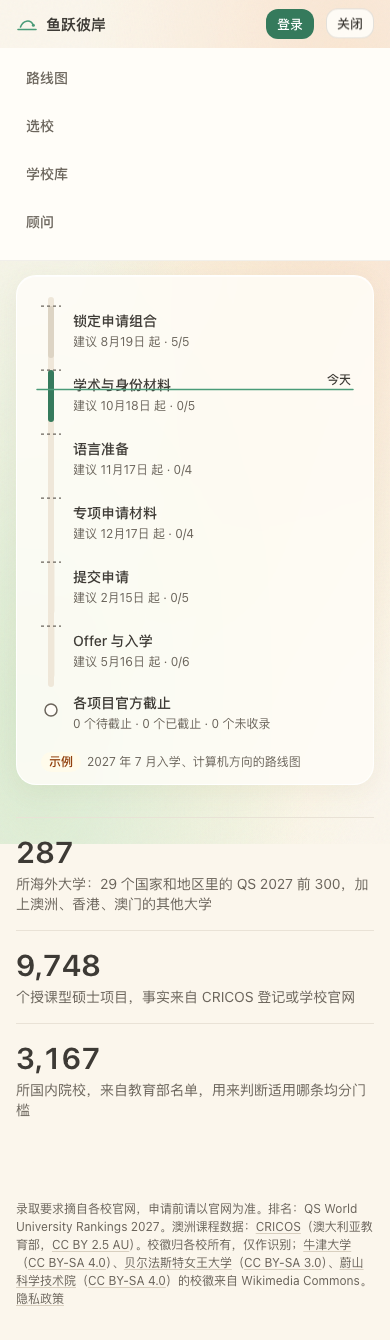
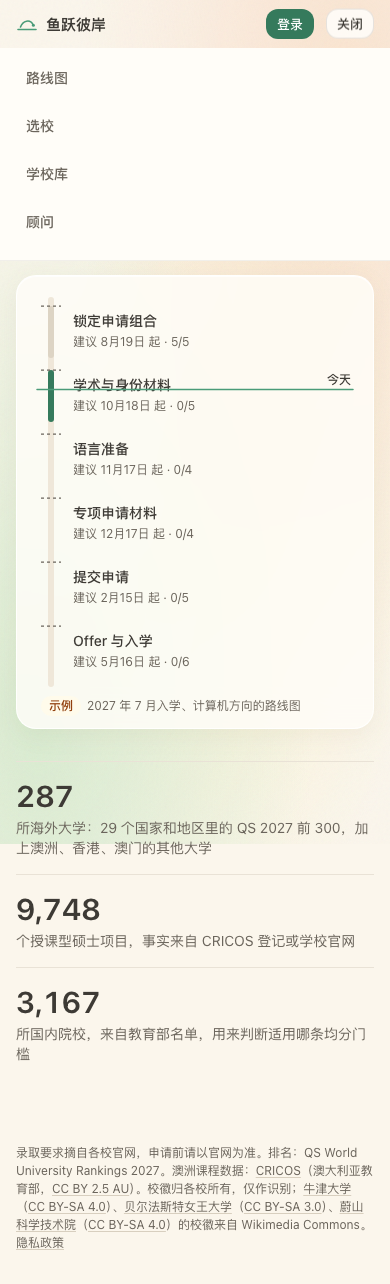
fix(web): search a school's programs by name in the page, clamp its pages, quiet the home sample
- The school page reads all of the school's programs once and filters by program name and study area itself (filterSchoolPrograms): the catalogue's q also matches the school's names, so "Technology" at UTS returned every program. The separate filtered API read is gone.
- A page number is floored, a non-number reads as 1 and a page past the end shows the last page (clampPage); a query of only spaces is no filter.
- The home sample hides the deadlines row and the empty 未收录 lane (Timeline showDeadlines), since the sample has no portfolio.
- The advisor's refusal points to the school's page in 学校库 instead of the removed 项目库 (the only backend line changed).
- The walkthrough checks the stubbed advisor request by URL, method and body and confirms the session through /api/auth/me, instead of reading the cookie header of a request that never reached the network; it adds the UTS search, the out-of-range page and the quiet sample.

diff --git a/web/components/roadmap/Timeline.tsx b/web/components/roadmap/Timeline.tsx
@@ -25,6 +25,11 @@ interface Props {
   onSelect: (phaseId: string) => void;
   /** Draw the entrance once, on the first render of the page. */
   animate: boolean;
+  /**
+   * The deadlines row and the 未收录 lane, on by default. The home page's sample has no portfolio, so it
+   * turns them off rather than show a row of zeros and an empty lane.
+   */
+  showDeadlines?: boolean;
 }
 
 const DAY = 86_400_000;
@@ -107,9 +112,9 @@ function phaseLabel(p: TimelinePhase): string {
   return `${p.title}，${start}${p.done}/${p.total} 项完成${p.overdue ? "，已过建议时间" : ""}${p.current ? "，当前阶段" : ""}`;
 }
 
-function Horizontal({ model, today, deadlines, selected, onSelect, animate, width: W }: Props & { width: number }) {
+function Horizontal({ model, today, deadlines, selected, onSelect, animate, showDeadlines = true, width: W }: Props & { width: number }) {
   const compact = W < 760;
-  const LABEL = compact ? 136 : 196, LANE = compact ? 84 : 104, TOP = 58, PITCH = 44, BAR = 22;
+  const LABEL = compact ? 136 : 196, LANE = showDeadlines ? (compact ? 84 : 104) : 0, TOP = 58, PITCH = 44, BAR = 22;
   const x0 = LABEL + 8, x1 = W - LANE - 16;
   const first = model.phases[0]?.start ? utc(model.phases[0].start) : today;
   // From the start of today's day, so a deadline dated today is still on the axis.
@@ -124,7 +129,7 @@ function Horizontal({ model, today, deadlines, selected, onSelect, animate, widt
   });
   const pending = deadlines.filter((d) => d.view.state === "unknown");
   const closed = deadlines.filter((d) => d.view.state === "closed");
-  const rows = model.phases.length + 1;
+  const rows = model.phases.length + (showDeadlines ? 1 : 0);
   const H = TOP + rows * PITCH + 8;
 
   const months: Date[] = [];
@@ -137,8 +142,12 @@ function Horizontal({ model, today, deadlines, selected, onSelect, animate, widt
 
   return (
     <svg viewBox={`0 0 ${W} ${H}`} width={W} height={H} className={`timeline-svg${animate ? " tl-animate" : ""}`} role="group" aria-label="申请路线图时间轴">
-      <rect x={W - LANE} y={TOP - 8} width={LANE} height={H - TOP + 8} rx={14} fill={C.lane} />
-      <text x={W - LANE / 2} y={TOP - 16} textAnchor="middle" fontSize={12} fill={C.muted}>{compact ? "未收录" : "未收录的截止"}</text>
+      {showDeadlines && (
+        <>
+          <rect x={W - LANE} y={TOP - 8} width={LANE} height={H - TOP + 8} rx={14} fill={C.lane} />
+          <text x={W - LANE / 2} y={TOP - 16} textAnchor="middle" fontSize={12} fill={C.muted}>{compact ? "未收录" : "未收录的截止"}</text>
+        </>
+      )}
       {months.map((m, i) => (
         <g key={m.toISOString()}>
           <line x1={xs(m)} x2={xs(m)} y1={TOP - 8} y2={H - 8} stroke={C.track} strokeWidth={1} />
@@ -174,7 +183,7 @@ function Horizontal({ model, today, deadlines, selected, onSelect, animate, widt
           </g>
         );
       })}
-      <g>
+      {showDeadlines && <g>
         <text x={10} y={TOP + model.phases.length * PITCH + 15} fontSize={14} fontWeight={500} fill={C.ink}>各项目官方截止</text>
         <text x={10} y={TOP + model.phases.length * PITCH + 32} fontSize={12} fill={C.muted}>
           {deadlines.length - pending.length - closed.length} 个待截止 · {closed.length} 个已截止 · {pending.length} 个未收录
@@ -194,7 +203,7 @@ function Horizontal({ model, today, deadlines, selected, onSelect, animate, widt
             <text x={W - LANE + 34} y={TOP + model.phases.length * PITCH + (PITCH - 4) / 2 + 4} fontSize={12} fill={C.ink}>未收录 {pending.length}</text>
           </g>
         )}
-      </g>
+      </g>}
       {model.dated && tx >= x0 - 1 && tx <= x1 + 1 && (
         <g>
           <line className="tl-today" x1={tx} x2={tx} y1={TOP - 50} y2={H - 8} stroke={C.accent} strokeWidth={1.5} strokeLinecap="round" />
@@ -206,11 +215,11 @@ function Horizontal({ model, today, deadlines, selected, onSelect, animate, widt
 }
 
 /** Below 640px: time runs down, one row per phase, so labels keep 14px instead of shrinking. */
-function Vertical({ model, today, deadlines, selected, onSelect, animate, width: W }: Props & { width: number }) {
+function Vertical({ model, today, deadlines, selected, onSelect, animate, showDeadlines = true, width: W }: Props & { width: number }) {
   const ROW = 64, TRACK_X = 18, TOP = 8;
   const todayIso = today.toISOString().slice(0, 10);
   const rows = model.phases.length;
-  const H = TOP + rows * ROW + 64;
+  const H = TOP + rows * ROW + (showDeadlines ? 64 : 8);
   const pending = deadlines.filter((d) => d.view.state === "unknown").length;
   const closed = deadlines.filter((d) => d.view.state === "closed").length;
   const open = deadlines.length - pending - closed;
@@ -251,11 +260,11 @@ function Vertical({ model, today, deadlines, selected, onSelect, animate, width:
           <text x={W - 6} y={(todayY as number) - 6} textAnchor="end" fontSize={12} fontWeight={500} fill={C.ink}>今天</text>
         </g>
       )}
-      <g>
+      {showDeadlines && <g>
         <circle cx={TRACK_X} cy={TOP + rows * ROW + 26} r={6} fill={C.surface} stroke={C.muted} strokeWidth={1.5} />
         <text x={40} y={TOP + rows * ROW + 24} fontSize={14} fontWeight={500} fill={C.ink}>各项目官方截止</text>
         <text x={40} y={TOP + rows * ROW + 44} fontSize={12} fill={C.muted}>{open} 个待截止 · {closed} 个已截止 · {pending} 个未收录</text>
-      </g>
+      </g>}
     </svg>
   );
 }

diff --git a/web/app/schools/[slug]/page.tsx b/web/app/schools/[slug]/page.tsx
@@ -4,7 +4,7 @@ import { notFound, redirect } from "next/navigation";
 
 import { ProgramTable } from "@/components/catalog/ProgramTable";
 import { SchoolMark } from "@/components/ui";
-import { programColumns, universityIdsFor } from "@/lib/catalog";
+import { clampPage, filterSchoolPrograms, programColumns, universityIdsFor } from "@/lib/catalog";
 import { masterPrograms, overseasInstitutions } from "@/lib/catalog-server";
 import { institutionSlug } from "@/lib/prototype-library";
 import { serverProgramPage, serverUniversities } from "@/lib/server-api";
@@ -35,8 +35,10 @@ export async function generateMetadata({ params }: { params: Promise<{ slug: str
 
 /**
  * One school and the programs the catalogue holds for it, searchable by name and filterable by study area.
- * The only way to browse programs: the catalogue-wide list was removed. The API serves programs with a
- * stated requirement first.
+ * The only way to browse programs: the catalogue-wide list was removed. Every program of the school is
+ * read once (at most a few pages of 100) and searched, filtered and paged here, because the catalogue's
+ * `q` also matches the school's own names. The API serves programs with a stated requirement first, and
+ * filtering keeps that order.
  */
 export default async function SchoolPage({
   params,
@@ -54,30 +56,21 @@ export default async function SchoolPage({
     notFound();
   }
   const query = await searchParams;
-  const q = one(query.q).slice(0, 100);
+  const q = one(query.q).trim().slice(0, 100);
   const field = STUDY_AREAS.includes(one(query.field) as (typeof STUDY_AREAS)[number]) ? one(query.field) : "";
-  const pageNo = Math.max(1, Number(one(query.page)) || 1);
   const name = school.name_zh || school.name_en || "未知";
   const base = `/schools/${encodeURIComponent(institutionSlug(school))}`;
 
   let all: Program[] | null = null;
-  let page: { programs: Program[]; total: number } | null = null;
   try {
     const ids = universityIdsFor(school, await serverUniversities());
-    if (ids.length === 0) {
-      all = [];
-      page = { programs: [], total: 0 };
-    } else {
-      [all, page] = await Promise.all([
-        allPrograms(ids),
-        serverProgramPage({ provider: ids, q, field: field || undefined, limit: PAGE, offset: (pageNo - 1) * PAGE }),
-      ]);
-    }
+    all = ids.length === 0 ? [] : await allPrograms(ids);
   } catch {
     all = null;
-    page = null;
   }
-  const pages = page ? Math.max(1, Math.ceil(page.total / PAGE)) : 1;
+  const matching = all ? filterSchoolPrograms(all, { q, field }) : [];
+  const { page: pageNo, pages } = clampPage(one(query.page), matching.length, PAGE);
+  const page = all ? { programs: matching.slice((pageNo - 1) * PAGE, pageNo * PAGE), total: matching.length } : null;
   const filtered = Boolean(q || field);
   const href = (n: number) => {
     const next = new URLSearchParams();

diff --git a/web/lib/catalog.test.ts b/web/lib/catalog.test.ts
@@ -5,6 +5,8 @@ import { test } from "node:test";
 import {
   cricosCode,
   cricosFacts,
+  clampPage,
+  filterSchoolPrograms,
   missingRequirements,
   programColumns,
   schoolSlugForUniversity,
@@ -109,4 +111,32 @@ test("a school's table keeps only the columns some program fills", () => {
   assert.deepEqual(programColumns([program("y", { duration: "1 year" })], courses), {
     duration: true, tuition: false, requirements: false,
   });
+});
+
+test("a school's programs are searched by program name only, never by the school's name", () => {
+  const programs = [
+    { name: "Master of Data Science", field: "计算机与数据" },
+    { name: "Master of Engineering (Technology Management)", field: "工程" },
+    { name: "Master of Laws", field: "法律与犯罪学" },
+    { name: null, field: null },
+  ];
+  // "Technology" is in the University of Technology Sydney's own name; only one program carries it.
+  assert.deepEqual(filterSchoolPrograms(programs, { q: "technology", field: "" }).map((p) => p.name), ["Master of Engineering (Technology Management)"]);
+  assert.deepEqual(filterSchoolPrograms(programs, { q: "  DATA ", field: "" }).map((p) => p.name), ["Master of Data Science"]);
+  assert.deepEqual(filterSchoolPrograms(programs, { q: "", field: "法律与犯罪学" }).map((p) => p.name), ["Master of Laws"]);
+  assert.deepEqual(filterSchoolPrograms(programs, { q: "master", field: "工程" }).map((p) => p.name), ["Master of Engineering (Technology Management)"]);
+  // Whitespace only is no filter.
+  assert.equal(filterSchoolPrograms(programs, { q: "   ", field: "" }).length, 4);
+});
+
+test("a page number is clamped to the pages there are", () => {
+  assert.deepEqual(clampPage("3", 100, 30), { page: 3, pages: 4 });
+  assert.deepEqual(clampPage("99", 100, 30), { page: 4, pages: 4 });
+  assert.deepEqual(clampPage("2.7", 100, 30), { page: 2, pages: 4 });
+  assert.deepEqual(clampPage("-5", 100, 30), { page: 1, pages: 4 });
+  assert.deepEqual(clampPage("abc", 100, 30), { page: 1, pages: 4 });
+  assert.deepEqual(clampPage("Infinity", 100, 30), { page: 1, pages: 4 });
+  assert.deepEqual(clampPage("1e400", 100, 30), { page: 1, pages: 4 });
+  assert.deepEqual(clampPage(undefined, 0, 30), { page: 1, pages: 1 });
+  assert.deepEqual(clampPage("5", 0, 30), { page: 1, pages: 1 });
 });

diff --git a/web/lib/catalog.ts b/web/lib/catalog.ts
@@ -135,3 +135,31 @@ export function programColumns(
     requirements: programs.some(statesARequirement),
   };
 }
+
+/**
+ * A school's programs narrowed by a search term and a study area, in the page itself. The catalogue's
+ * own `q` also matches the school's names, so on a school page it would match every program of a school
+ * whose name holds the term ("Technology" at UTS); here only the program's name is searched, without
+ * case, and a term of only spaces is no filter.
+ */
+export function filterSchoolPrograms<T extends { name: string | null; field: string | null }>(
+  programs: T[],
+  { q, field }: { q: string; field: string },
+): T[] {
+  const term = q.trim().toLowerCase();
+  return programs.filter(
+    (p) => (!field || p.field === field) && (!term || (p.name ?? "").toLowerCase().includes(term)),
+  );
+}
+
+/**
+ * The page to show for a page number read from the address, and how many pages there are: a fraction is
+ * rounded down, anything that is not a finite number reads as page 1, and a page past the end shows the
+ * last one rather than an empty list.
+ */
+export function clampPage(raw: string | undefined, total: number, size: number): { page: number; pages: number } {
+  const pages = Math.max(1, Math.ceil(total / size));
+  const asked = Number(raw);
+  const page = Number.isFinite(asked) ? Math.floor(asked) : 1;
+  return { page: Math.min(pages, Math.max(1, page)), pages };
+}

diff --git a/web/components/home/SampleTimeline.tsx b/web/components/home/SampleTimeline.tsx
@@ -19,7 +19,7 @@ export function SampleTimeline() {
   const model = timelineOf(buildRoadmap(profile, done, today), today);
   return (
     <figure className="panel" style={{ margin: 0, padding: "16px 16px 8px" }}>
-      <Timeline model={model} today={today} deadlines={[]} selected={null} onSelect={() => router.push("/tiers")} animate />
+      <Timeline model={model} today={today} deadlines={[]} showDeadlines={false} selected={null} onSelect={() => router.push("/tiers")} animate />
       <figcaption className="muted small" style={{ padding: "4px 8px" }}>
         <span className="pill pill-sample" style={{ marginRight: 6 }}>示例</span>
         {year} 年 7 月入学、计算机方向的路线图

diff --git a/api/app/agent/evidence.py b/api/app/agent/evidence.py
@@ -404,7 +404,7 @@ def refusal(session: Session, found: Retrieval) -> tuple[str, str]:
         )
         return "no_program_in_field", (
             f"{names}已收录 {counts['with_data']} 个项目的官方录取要求，但其中没有{subject}方向的，{pending}"
-            f"可以换个方向问，或在项目库里查看该校已收录的项目。{tail}"
+            f"可以换个方向问，或到学校库里该校的页面查看已收录的项目。{tail}"
         )
     return "no_citable_source", "找到了相关项目，但它没有可引用的官方来源链接，所以我不能回答它的要求。已记录为待补来源。"
 

diff --git a/note/decisions.md b/note/decisions.md
@@ -7,7 +7,7 @@
 - **背景**：lead 要求把站点包装成成品（不加功能、不动后端）。MortyYJT 睡前授权不问、自己定，每条记在这里。
 - **决定**：
   - 删掉 `/programs` 列表页（直接 404，不跳转）和所有指向它的链接；项目只能从学校详情页进。项目详情页保留，面包屑改成「学校库 › 校名」，顶栏在项目详情页标「学校库」为当前页。
-  - 学校详情页搬来原列表页的搜索框和方向筛选（同一套 `q`、`field` 参数走 `/api/programs`），翻页链接带着筛选条件。排序不用改：API 本来就把有要求的项目排前面。全校每个项目都没有的列（学制、总学费、录取要求）整列不显示，按全校项目算（多一次最多 3 页的读取），不按当前页算，免得翻页时列忽有忽无。
+  - 学校详情页搬来原列表页的搜索框和方向筛选，翻页链接带着筛选条件。页面一次读出该校全部项目（最多 3 页 100 条），在页面里按项目名（不分大小写、去首尾空格，只有空格算没填）和方向筛选、分页；不用 API 的 `q`，因为它也匹配校名（在 UTS 搜 Technology 会返回全部项目）。页码向下取整、非数字当第 1 页、超出范围显示最后一页。排序沿用 API 的顺序（有要求的在前）。全校每个项目都没有的列（学制、总学费、录取要求）整列不显示，按全校项目算，免得翻页时列忽有忽无。
   - 状态标签只留「已核对」（`已核验`，有人核对过），`待核验`、`机器核对` 不再显示任何字（`verifiedMark` 取代 `dataStatusLabel`）。理由：未核对是现在所有数据的默认状态，逐行标注只是噪音；但人工核验入口（#69）确认过的页仍要让申请人看得出来。拿掉逐行「未核对」后，页脚保留一句「录取要求摘自各校官网，申请前请以官网为准」。
   - 删掉每页底部的说明段落（`SourceNote` 组件删除），只留全站一行页脚：上面那句提醒、QS 2027 出处、CRICOS（CC BY 2.5 AU，带许可链接）、按 CC BY-SA 使用的 3 枚校徽（牛津、贝尔法斯特女王、蔚山，各自链到 Commons 页面和许可）、隐私政策。校徽名单从学校库文件读，以后新增 CC 校徽不用改组件。管理页的说明改成标题下的一行小字（管理页本来就是内部页）。
   - 顾问页不再显示「意图」「证据门禁」两个标签（讲的是系统内部流程），工具标签保留；删掉错误的「对话保存在服务器内存里」（对话在 PostgreSQL）。
@@ -16,8 +16,9 @@
   - 读取中统一成灰色占位条（`Loading` 组件改为骨架，读屏仍读「正在读取…」）；分档、路线图、选校组合在等登录状态时保留页面标题和框架。
   - 首页示例路线图空白的根因：`Timeline` 量到自己的宽度之前什么都不画，服务器返回的 HTML 里只有一个空框，要等脚本加载并运行后才出现（慢网络、截图工具、没跑脚本时就一直是空的）。改为服务器和首次渲染按名义宽度把横竖两种布局都画出来，CSS 按 640px 显示其中一种，量到宽度后换成实际宽度；示例的「今天」取 UTC 当天零点，服务器和浏览器画出来一致。
   - 标签页图标：主色 `#357a5c`（`--color-primary`，白字能到 5.1:1）圆角方块上画奶油色的顶栏标志，笔画加粗约 1.5 倍；另出 `favicon.ico`（16/32/48）和 180px `apple-icon.png`（方角，iOS 自己切圆角），由 `scripts/make-icons.cjs` 从 `icon.svg` 生成（PR #79）。没用 `--color-accent`：它只到 3.1:1，16px 下奶油色笔画发虚。
-  - `make verify` 的走查不再真的问顾问：浏览器里把 `/api/advisor/*` 拦下来返回一句桩回复，改为检查发出的请求带着原句和登录会话。原因：顾问每轮都调付费模型（DeepSeek 余额已为负）。代价是走查不再证明后端在登录会话下接受这次请求，这一点由后端测试覆盖。
-- **没做**：顾问拒答时的话术「在项目库里查看该校已收录的项目」在 `api/app/agent/evidence.py`，这次不许动后端，留着；改成「学校库」要等下次动后端时一起改。
+  - 首页示例路线图不画「各项目官方截止 0 个…」那一行和右侧空的「未收录」栏（`Timeline` 的 `showDeadlines`），示例没有选校组合，不编截止日期。
+  - `make verify` 的走查不再真的问顾问：浏览器里把 `/api/advisor/*` 拦下来返回一句桩回复，改为检查请求的地址、方法和正文（原句、对话 id），会话另用 `/api/auth/me` 向服务器确认（被拦截的请求的 cookie 头在 Chromium 里不可靠）。原因：顾问每轮都调付费模型（DeepSeek 余额已为负）。代价是走查不再证明后端在登录会话下接受这次请求，这一点由后端测试覆盖。
+  - 顾问拒答话术（`api/app/agent/evidence.py`）的「在项目库里查看」改成「到学校库里该校的页面查看」，lead 授权只改这一句，没有测试断言它。
 
 ## 2026-10-31 去掉旧项目名，SSH 只认密钥
 

diff --git a/note/handoff.md b/note/handoff.md
@@ -41,7 +41,6 @@
 - 抽取器的已知局限：`verify` 只保证引文逐字在页上、数字在引文里，`text`/`label`/`recommended` 是否忠实没查；同温度 0 下截止日期的拒收数在跑与跑之间能差一倍（模型时而从页面别处推年份）。
 - 采集数据里需要人工确认的点写在各校 json 的 `notes` 里（旧清单可在提交 `1a9fa30` 的 handoff 里查到）。
 - 截止日期会过期（10-30 按北京时间 3,555 条里 289 条已过，102 个项目全部已过）：界面在渲染时按当天判断、标「已截止」，库里不存状态。最晚的一条是 2028-02-01，随着时间推移越来越多项目会变成「全部已截止」，要靠 P1「采集队列」定期重采。
-- 顾问拒答话术还写着「在项目库里查看该校已收录的项目」（`api/app/agent/evidence.py`），项目库列表页删了以后应改成「学校库」；PR #80 不许动后端，留到下次改后端时。
 - CC BY-SA 校徽的署名（PR #80 起）在全站页脚，名单从 `overseas-institutions.json` 的 `logo_license` 读；以后加 CC 校徽要填 `logo_license` 和 `logo_source`，否则不会被署名。
 - **Crawl-delay**（10-30 起遵守）：82 个已缓存的 robots.txt 写了 5–120 秒，快照工具以前一律 2 秒；补采时 13 个站点被按 2 秒抓了（数据保留，见 decisions）。
 - 还没采到项目的学校 37 所，多数被拒，规则不允许绕过。找列表页还能接着做：把新 URL 写进 `_schools.json` 的 `listing_urls`，`python -m app.collect.queue discover <key>...`，worker 跑完 `export`。
